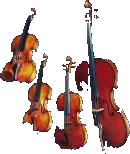
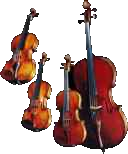
Gallery: the operator's cleaned-up quartet picture (T-0049, msg 624)
His own cleanup of the cut-out; shrunk to 128x154 with the same quality-35 JPEG crunch.
The versioned URL means Cloudflare serves the new one straight away.

Changed region(s): [[0.0, 0.0, 1.0, 1.0], [0.875, 0.8312, 0.9062, 0.8571]]

diff --git a/app/templates/gallery.html b/app/templates/gallery.html
@@ -68,7 +68,7 @@
         }
         .corner img { display: block; image-rendering: pixelated; }
         .corner.left { left: 12px; }
-        .corner.left img { width: 130px; }
+        .corner.left img { width: 128px; }
         .corner.right { right: 12px; }
         .corner.right img { width: 208px; }
         .corner.on { animation: glow-on 1.2s ease-in-out infinite; }
@@ -85,7 +85,7 @@
         @media (max-width: 1120px) {
             .corner-row { display: flex; justify-content: space-between; align-items: flex-end; max-width: 700px; margin: 0 auto 4px; }
             .corner { position: static; }
-            .corner.left img { width: 65px; }
+            .corner.left img { width: 64px; }
             .corner.right img { width: 104px; }
         }
         body.wine, body.wine * { cursor: url({{ asset('/Assets/wine_cursor.png') }}) 16 4, auto !important; }

diff --git a/app/static/Assets/SOURCE.md b/app/static/Assets/SOURCE.md
@@ -6,9 +6,10 @@
   https://opengameart.org/content/game-wood-panel. Cropped to the lower board, its ragged
   bottom edge mirrored onto the top, shrunk to 240x80, darkened (so gold text reads on it) and
   cut to 20 colours (T-0049).
-- `quartet.png`: a photo of a string quartet's instruments supplied by the operator
-  (2026-10-02); black background cut out, shrunk and saved through a quality-35 JPEG to match
-  the Spike picture. Sourced by the operator; used at his choice.
+- `quartet.png`: a photo of a string quartet's instruments supplied by the operator, which he
+  then cleaned up himself after the first cut-out (2026-10-02, msg 624); shrunk to 128x154
+  and saved through a quality-35 JPEG to match the Spike picture. Sourced by the operator;
+  used at his choice.
 - `carpet_tile.png`, `carpet_border.png`, `tassel.png`, `wine_cursor.png`: drawn pixel by pixel for this
   project (T-0049).
 - `spike_table.png`: the operator's own photoshop (2026-10-02) of Spike by a table of red wine
